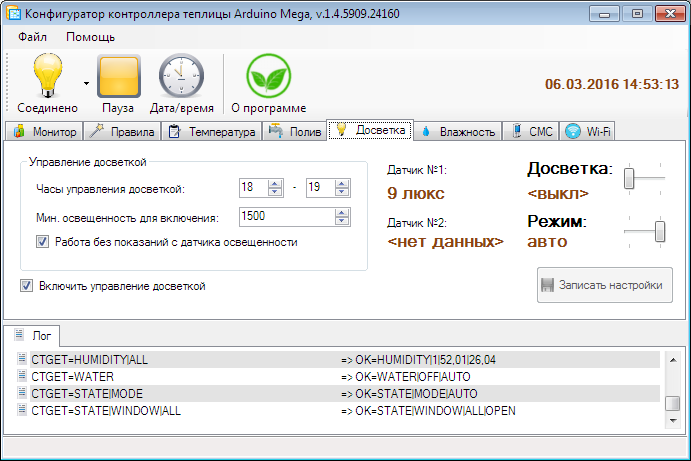
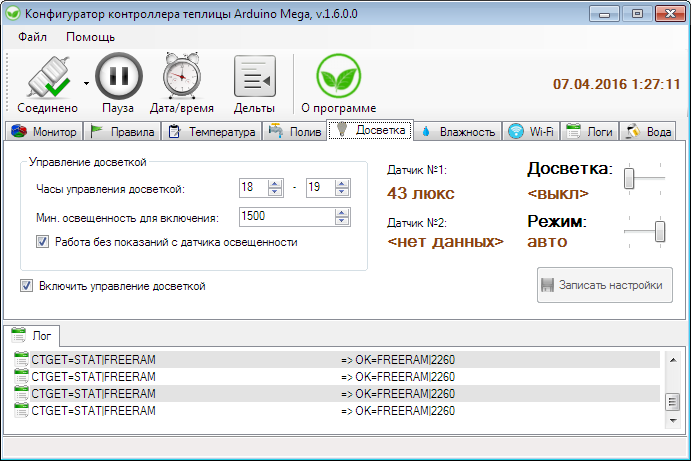
Обновил скриншоты конфигуратора

diff --git a/README.md b/README.md
@@ -23,6 +23,9 @@
 <img src="screen6.png" hspace='10'/>
 <img src="screen7.png" hspace='10'/>
 <img src="screen8.png" hspace='10'/>
+<img src="screen9.png" hspace='10'/>
+<img src="screen10.png" hspace='10'/>
+<img src="screen11.png" hspace='10'/>
 <p>
 # Как использовать
 <p>
